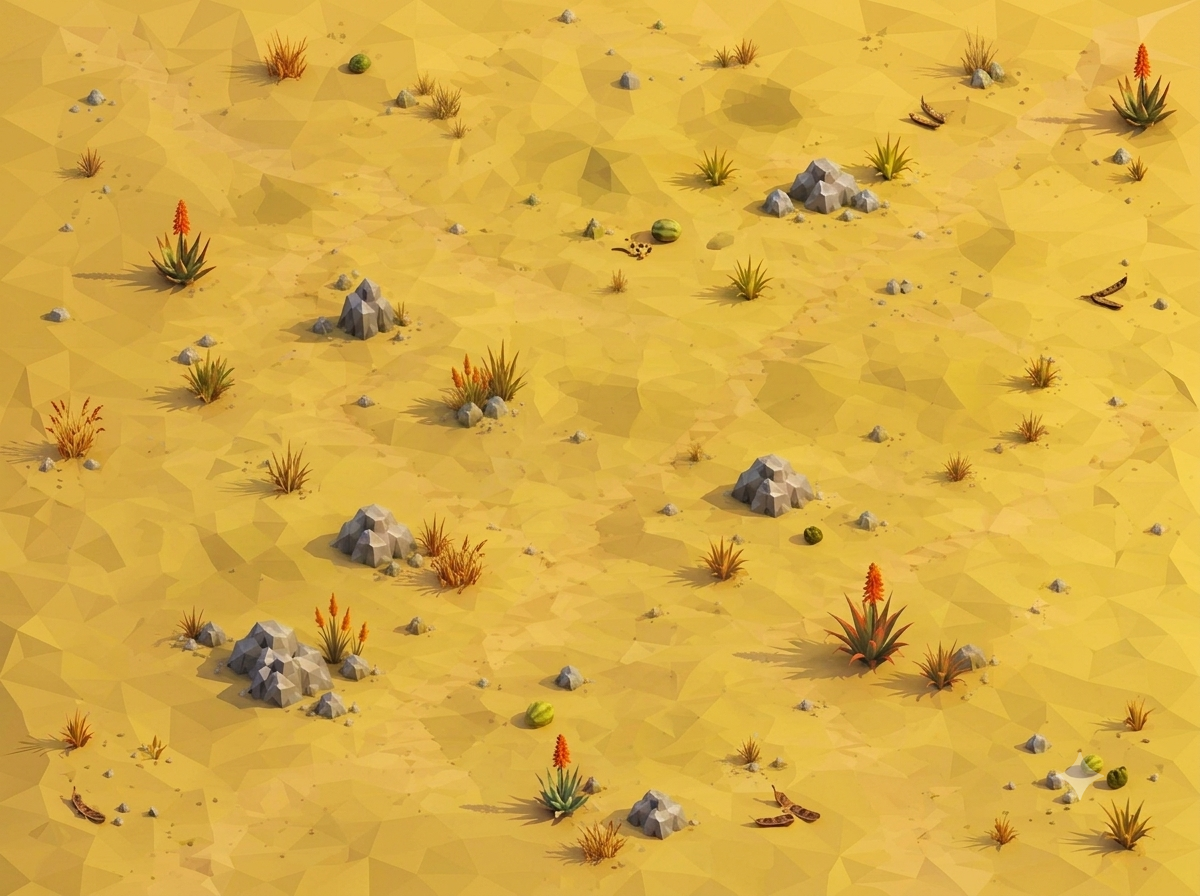
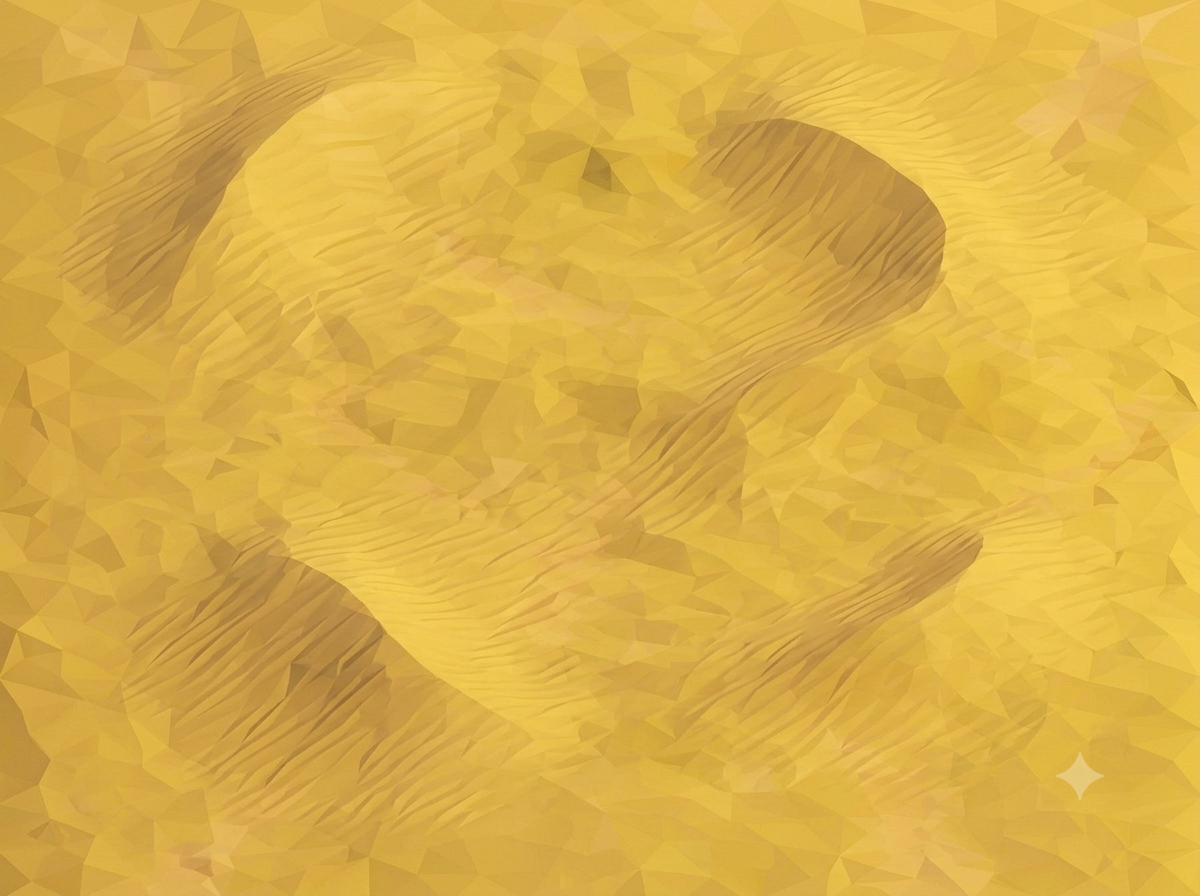
Tile and gameplay updates

diff --git a/index.html b/index.html
@@ -1438,7 +1438,7 @@
                 <div class="placeholder"></div>
             </div>
             <div class="ng-tribe-grid" id="tribe-grid"></div>
-            <button class="ng-start-btn" onclick="goToStep('step-opponents')">Next →</button>
+            <button class="ng-start-btn" id="tribe-next-btn" onclick="goToStep('step-opponents')">Next →</button>
         </div>
 
         <!-- Step 3: Opponents & Options -->
@@ -1530,8 +1530,6 @@
                     <button data-action="invigorate" class="invigorate-btn"><span class="action-icon">✨</span><span class="action-label">Invigorate</span><span class="action-shortcut">I</span></button>
                     <div class="popup-divider"></div>
                     <button data-action="build-raft"><span class="action-icon">🪵</span><span class="action-label">Build Raft</span></button>
-                    <!-- Removed build-mine and build-quarry from unit actions -->
-                    <!-- New tile-based actions -->
                     <button data-action="build-sawpit" class="sawpit-btn" style="display:none;"><span class="action-icon">🪵</span><span class="action-label">Build Sawpit</span></button>
                     <button data-action="build-mine" class="mine-btn" style="display:none;"><span class="action-icon">⛏</span><span class="action-label">Build Mine</span></button>
                     <button data-action="build-quarry" class="quarry-btn" style="display:none;"><span class="action-icon">🪨</span><span class="action-label">Build Quarry</span></button>
@@ -1572,7 +1570,7 @@
     <!-- ════════════════════════════════════════════════════════════════ -->
     <script>
         // ─── GAME VERSION ──────────────────────────────────────────────
-        const GAME_VERSION = '0.19.0';
+        const GAME_VERSION = '0.19.1';
 
         // ─── ASSET PATHS ──────────────────────────────────────────────
         const TRIBE_IDS = ['zulu', 'ashanti', 'yoruba', 'maasai', 'berber', 'hausa', 'dogon', 'songhai', 'oromo', 'tutsi', 'swahili',
@@ -1605,7 +1603,7 @@
         ASSET_PATHS['resource_fish'] = 'resource_fish.png';
         ASSET_PATHS['fishing'] = 'fishing.png';
         ASSET_PATHS['farm'] = 'farm.png';
-        ASSET_PATHS['sawpit'] = 'sawpit.png'; // new
+        ASSET_PATHS['sawpit'] = 'sawpit.png';
         ASSET_PATHS['wonder_pyramids'] = 'wonder_pyramids.png';
         ASSET_PATHS['wonder_great_zimbabwe'] = 'wonder_great_zimbabwe.png';
         ASSET_PATHS['wonder_timbuktu'] = 'wonder_timbuktu.png';
@@ -3168,10 +3166,13 @@
                 }
             }
 
-            const numVillages = Math.floor(Math.random() * 6) + 5;
+            // Neutral villages – number based on tribes, minimum distance 3
+            const totalTribes = G.tribes ? G.tribes.length : 6; // fallback
+            const numVillages = Math.max(3, Math.floor(totalTribes * 1.5) + 2);
             let placed = 0,
                 attempts = 0;
-            while (placed < numVillages && attempts < 300) {
+            const villagePositions = [];
+            while (placed < numVillages && attempts < 500) {
                 attempts++;
                 const q = 2 + Math.floor(Math.random() * (w - 4));
                 const r = 2 + Math.floor(Math.random() * (h - 4));
@@ -3179,11 +3180,13 @@
                 if (!tile) continue;
                 if (tile.terrain === 'water' || tile.terrain === 'mountain' || tile.terrain === 'desert') continue;
                 if (tile.city) continue;
+                // Check distance from existing villages
                 let tooClose = false;
-                for (const c of G.cities) {
-                    if (c.isNeutral && hexDistance({ q, r }, { q: c.q, r: c.r }) < 4) { tooClose = true; break; }
+                for (const pos of villagePositions) {
+                    if (hexDistance({ q, r }, pos) < 3) { tooClose = true; break; }
                 }
                 if (tooClose) continue;
+                // Also check distance from player/AI start positions (not placed yet, so we can't check)
                 const city = {
                     id: G.cityIdCounter++,
                     q,
@@ -3202,6 +3205,7 @@
                 G.cities.push(city);
                 tile.city = city;
                 placed++;
+                villagePositions.push({ q, r });
             }
             G.neutralVillages = placed;
         }
@@ -3648,7 +3652,6 @@
             const city = G.cities.find(c => c.owner === player.id && hexDistance({ q: c.q, r: c.r }, { q: harbor.q,
                     r: harbor.r }) <= 2);
             if (city) {
-                // Apply ship discount (sawpit) separately
                 const shipDiscount = getCityShipDiscount(city);
                 const unitDiscount = getCityUnitDiscount(city);
                 const totalDiscount = Math.min(0.8, shipDiscount + unitDiscount);
@@ -3702,23 +3705,37 @@
             return true;
         }
 
+        // ─── RESOURCE DEDUCTION HELPER ──────────────────────────────
+        function deductCityResources(city, amount) {
+            // Returns true if enough resources (stockpile + progress) to deduct amount
+            // Deducts from stockpile first, then progress
+            if (city.stockpile + city.progress < amount) return false;
+            let remaining = amount;
+            let takenFromStockpile = Math.min(city.stockpile, remaining);
+            city.stockpile -= takenFromStockpile;
+            remaining -= takenFromStockpile;
+            if (remaining > 0) {
+                city.progress -= remaining;
+            }
+            return true;
+        }
+
         // ─── MINE / QUARRY (now tile-based with productivity cost) ──
         function buildMineOnTile(tile, city) {
             if (!tile || !city) return false;
             if (tile.resource !== '🪙') return false;
             if (tile.mine) return false;
-            if (city.stockpile < 5) {
-                showAlert('Not enough productivity', 'This settlement needs 5 productivity to build a mine.');
+            const cost = 5;
+            if (!deductCityResources(city, cost)) {
+                showAlert('Not enough resources', 'You need 5 productivity (stockpile + project progress) to build a mine.');
                 return false;
             }
-            // Check if tile is influenced by this city
             const influence = getCityInfluence(city);
             let isInfluenced = false;
             for (const t of influence) {
                 if (t.q === tile.q && t.r === tile.r) { isInfluenced = true; break; }
             }
             if (!isInfluenced) return false;
-            city.stockpile -= 5;
             tile.mine = true;
             tile.resource = null;
             queueMessage('⛏ Mine built! +2 gold per turn.');
@@ -3733,8 +3750,9 @@
             if (!tile || !city) return false;
             if (tile.resource !== '🪨') return false;
             if (tile.quarry) return false;
-            if (city.stockpile < 5) {
-                showAlert('Not enough productivity', 'This settlement needs 5 productivity to build a quarry.');
+            const cost = 5;
+            if (!deductCityResources(city, cost)) {
+                showAlert('Not enough resources', 'You need 5 productivity (stockpile + project progress) to build a quarry.');
                 return false;
             }
             const influence = getCityInfluence(city);
@@ -3743,7 +3761,6 @@
                 if (t.q === tile.q && t.r === tile.r) { isInfluenced = true; break; }
             }
             if (!isInfluenced) return false;
-            city.stockpile -= 5;
             tile.quarry = true;
             tile.resource = null;
             queueMessage('🪨 Quarry built! Unit production costs reduced by 20% in the controlling city.');
@@ -3779,11 +3796,11 @@
                 showAlert('No city controls this tile', 'You need a city to control this area.');
                 return false;
             }
-            if (city.stockpile < 2) {
-                showAlert('Not enough productivity', 'This settlement needs 2 productivity to launch fishing boats.');
+            const cost = 2;
+            if (!deductCityResources(city, cost)) {
+                showAlert('Not enough resources', 'You need 2 productivity (stockpile + project progress) to launch fishing.');
                 return false;
             }
-            city.stockpile -= 2;
             tile.fishing = true;
             tile.resource = null;
             queueMessage('🎣 Fishing boats launched! Settlement improvements and unit production costs reduced.');
@@ -3818,11 +3835,11 @@
                 showAlert('No city controls this tile', 'You need a city to control this area.');
                 return false;
             }
-            if (city.stockpile < 2) {
-                showAlert('Not enough productivity', 'This settlement needs 2 productivity to build a farm.');
+            const cost = 2;
+            if (!deductCityResources(city, cost)) {
+                showAlert('Not enough resources', 'You need 2 productivity (stockpile + project progress) to build a farm.');
                 return false;
             }
-            city.stockpile -= 2;
             tile.farm = true;
             tile.resource = null;
             queueMessage('🌾 Farm built! Settlement improvements and unit production costs reduced.');
@@ -3858,11 +3875,11 @@
                 showAlert('No city controls this tile', 'You need a city to control this area.');
                 return false;
             }
-            if (city.stockpile < 2) {
-                showAlert('Not enough productivity', 'This settlement needs 2 productivity to build a sawpit.');
+            const cost = 2;
+            if (!deductCityResources(city, cost)) {
+                showAlert('Not enough resources', 'You need 2 productivity (stockpile + project progress) to build a sawpit.');
                 return false;
             }
-            city.stockpile -= 2;
             tile.sawpit = true;
             tile.resource = null;
             queueMessage('🪵 Sawpit built! Ship costs reduced by 25%, improvements and units by 10%.');
@@ -3903,7 +3920,6 @@
 
         function buildHarborOnTile(tile) {
             if (!canBuildHarborOnTile(tile, G.playerTribeId)) return false;
-            // No productivity cost for harbor (gold cost is in harbor production)
             const harbor = { id: G.harborIdCounter++, q: tile.q, r: tile.r, owner: G.playerTribeId, production: 0,
                 project: null };
             G.harbors.push(harbor);
@@ -4051,7 +4067,6 @@
                 const city = G.cities.find(c => c.owner === tribe.id && hexDistance({ q: c.q, r: c.r }, { q: harbor.q,
                         r: harbor.r }) <= 2);
                 if (city) {
-                    // Apply ship discount and unit discount
                     const shipDiscount = getCityShipDiscount(city);
                     const unitDiscount = getCityUnitDiscount(city);
                     const totalDiscount = Math.min(0.8, shipDiscount + unitDiscount);
@@ -4322,7 +4337,6 @@
                     return;
                 }
                 cost = getTechCost(techId);
-                // Tech cost is not reduced by improvements (research is separate)
                 if (!tribe.researchProgress) tribe.researchProgress = {};
                 progressTarget = () => {
                     if (city.progress >= cost) {
@@ -4381,7 +4395,7 @@
             applyStockpileToProject(city);
         }
 
-        // ─── AI TURN (unchanged, but now AI can also build improvements? not yet) ──
+        // ─── AI TURN ──────────────────────────────────────────────────
         function processAITribe(tribe) {
             return new Promise((resolve) => {
                 const overlay = document.getElementById('ai-turn-overlay');
@@ -5334,11 +5348,6 @@
             mineBtn.style.display = 'none';
             quarryBtn.style.display = 'none';
             harborBtn.style.display = 'none';
-
-            // Unit actions (no mine/quarry here anymore)
-            if (unit && unit.tribeId === player.id && !unit.hasMoved) {
-                // We removed mine/quarry from unit actions
-            }
 
             if (!unit && G.selectedCity) {
                 const city = G.selectedCity;
@@ -6329,7 +6338,6 @@
                 const y = 50;
 
                 ctx.save();
-                // Background
                 ctx.shadowColor = 'rgba(0,0,0,0.9)';
                 ctx.shadowBlur = 20;
                 ctx.fillStyle = 'rgba(12, 10, 16, 0.85)';
@@ -6340,7 +6348,6 @@
                 ctx.fill();
                 ctx.stroke();
                 ctx.shadowBlur = 0;
-                // Text
                 ctx.fillStyle = 'rgba(255,200,100,0.95)';
                 ctx.textAlign = 'center';
                 ctx.textBaseline = 'middle';
@@ -6528,7 +6535,6 @@
 
             // --- Resource tile (wood, gold, stone, fish, food) ---
             if (tile && tile.visible && !tile.unit && !tile.city && !tile.harbor) {
-                // Check for resource tiles
                 const isFish = tile.resource === '🐟' && !tile.fishing && canLaunchFishing(tile, player.id);
                 const isFood = tile.resource === '🌾' && !tile.farm && canBuildFarm(tile, player.id);
                 const isWood = tile.resource === '🪵' && !tile.sawpit && canBuildSawpit(tile, player.id);
@@ -6738,8 +6744,24 @@
         }
 
         function goToStep(stepId) {
+            // Oba mode: skip opponent selection and start directly
+            if (stepId === 'step-opponents' && selectedMode === 'oba') {
+                setupNewGame();
+                return;
+            }
             document.querySelectorAll('.ng-step').forEach(el => el.classList.remove('active'));
             document.getElementById(stepId).classList.add('active');
+            // If we are going to step-tribe, update the next button text based on mode
+            if (stepId === 'step-tribe') {
+                const nextBtn = document.getElementById('tribe-next-btn');
+                if (selectedMode === 'oba') {
+                    nextBtn.textContent = '⚔ Begin Campaign ⚔';
+                    nextBtn.onclick = () => { setupNewGame(); };
+                } else {
+                    nextBtn.textContent = 'Next →';
+                    nextBtn.onclick = () => { goToStep('step-opponents'); };
+                }
+            }
             if (stepId === 'step-opponents') {
                 updateCampaignSummary();
             }
@@ -6753,6 +6775,18 @@
             selectedMode = btn.dataset.mode;
             const customOpts = document.getElementById('custom-options');
             customOpts.classList.toggle('show', selectedMode === 'custom');
+            // Update the tribe step next button if we're already on that step
+            const activeStep = document.querySelector('.ng-step.active');
+            if (activeStep && activeStep.id === 'step-tribe') {
+                const nextBtn = document.getElementById('tribe-next-btn');
+                if (selectedMode === 'oba') {
+                    nextBtn.textContent = '⚔ Begin Campaign ⚔';
+                    nextBtn.onclick = () => { setupNewGame(); };
+                } else {
+                    nextBtn.textContent = 'Next →';
+                    nextBtn.onclick = () => { goToStep('step-opponents'); };
+                }
+            }
         }
 
         function updateCampaignSummary() {
@@ -6941,6 +6975,9 @@
                 G.playerGold = 80;
                 G.eliminationMessages = [];
                 resetSettlementNames();
+                // Scale map based on number of tribes
+                const numTribes = G.opponents.length + 1;
+                scaleMapSize(numTribes);
                 generateMap();
                 initTribes(G.playerTribeId, G.opponents);
                 updateVisibility();
@@ -6995,6 +7032,11 @@
             G.playerGold = 80;
             G.eliminationMessages = [];
             resetSettlementNames();
+
+            // Scale map based on number of tribes
+            const numTribes = G.opponents.length + 1;
+            scaleMapSize(numTribes);
+
             generateMap();
             initTribes(G.playerTribeId, G.opponents);
             updateVisibility();
@@ -7004,6 +7046,23 @@
             render();
             showScreen('game-screen');
             saveGame();
+        }
+
+        function scaleMapSize(numTribes) {
+            // Base map size for ~6 tribes, scale proportionally
+            const baseTribes = 6;
+            const baseWidth = 20;
+            const baseHeight = 14;
+            // Use square root scaling: total hexes ~ numTribes * 40
+            const totalHexes = Math.max(200, numTribes * 40);
+            const aspect = baseWidth / baseHeight; // ~1.43
+            let h = Math.floor(Math.sqrt(totalHexes / aspect));
+            let w = Math.floor(aspect * h);
+            // Clamp to reasonable range
+            w = Math.max(14, Math.min(30, w));
+            h = Math.max(10, Math.min(20, h));
+            G.mapWidth = w;
+            G.mapHeight = h;
         }
 
         function populateTribeGrid() {
@@ -7035,7 +7094,7 @@
 
         // ─── MAIN INIT ──────────────────────────────────────────
         document.addEventListener('DOMContentLoaded', () => {
-            console.log(`Oba v${GAME_VERSION} – Beta (sawpit, productivity costs, AI fixed)`);
+            console.log(`Oba v${GAME_VERSION} – Productivity cost from stockpile/progress, Oba skip, map scaling`);
             const textLogo = document.getElementById('menu-text-logo');
             if (textLogo) textLogo.style.display = 'block';
 
@@ -7134,7 +7193,7 @@
 
                 setupPopupDismissal();
 
-                console.log('Oba v0.19 – Sawpit, productivity costs for improvements, AI moves all units.');
+                console.log('Oba v0.19.1 – Productivity cost from stockpile/progress, Oba skip, map scaling.');
             });
         });
     </script>
